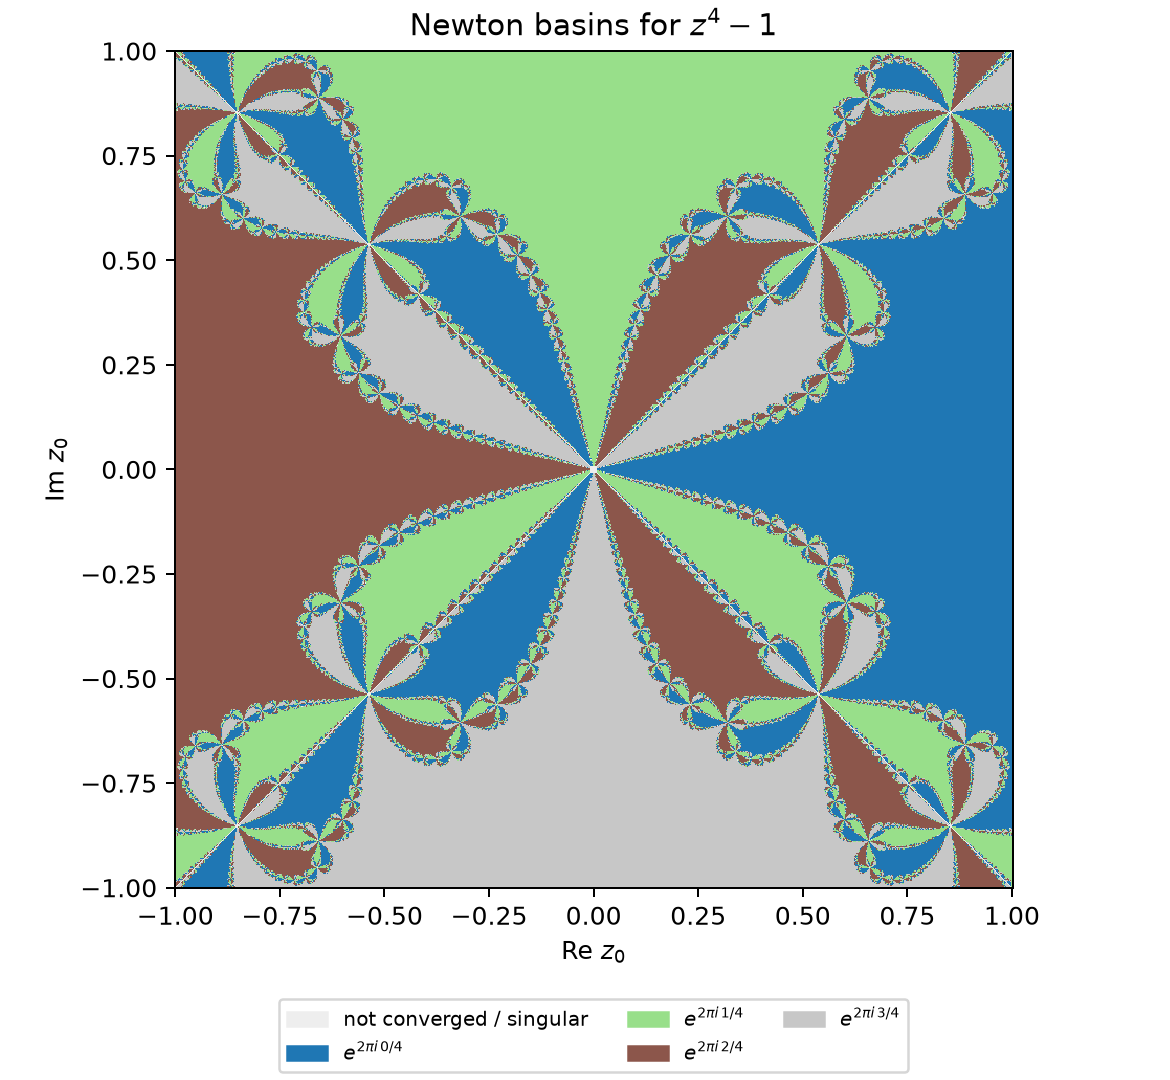
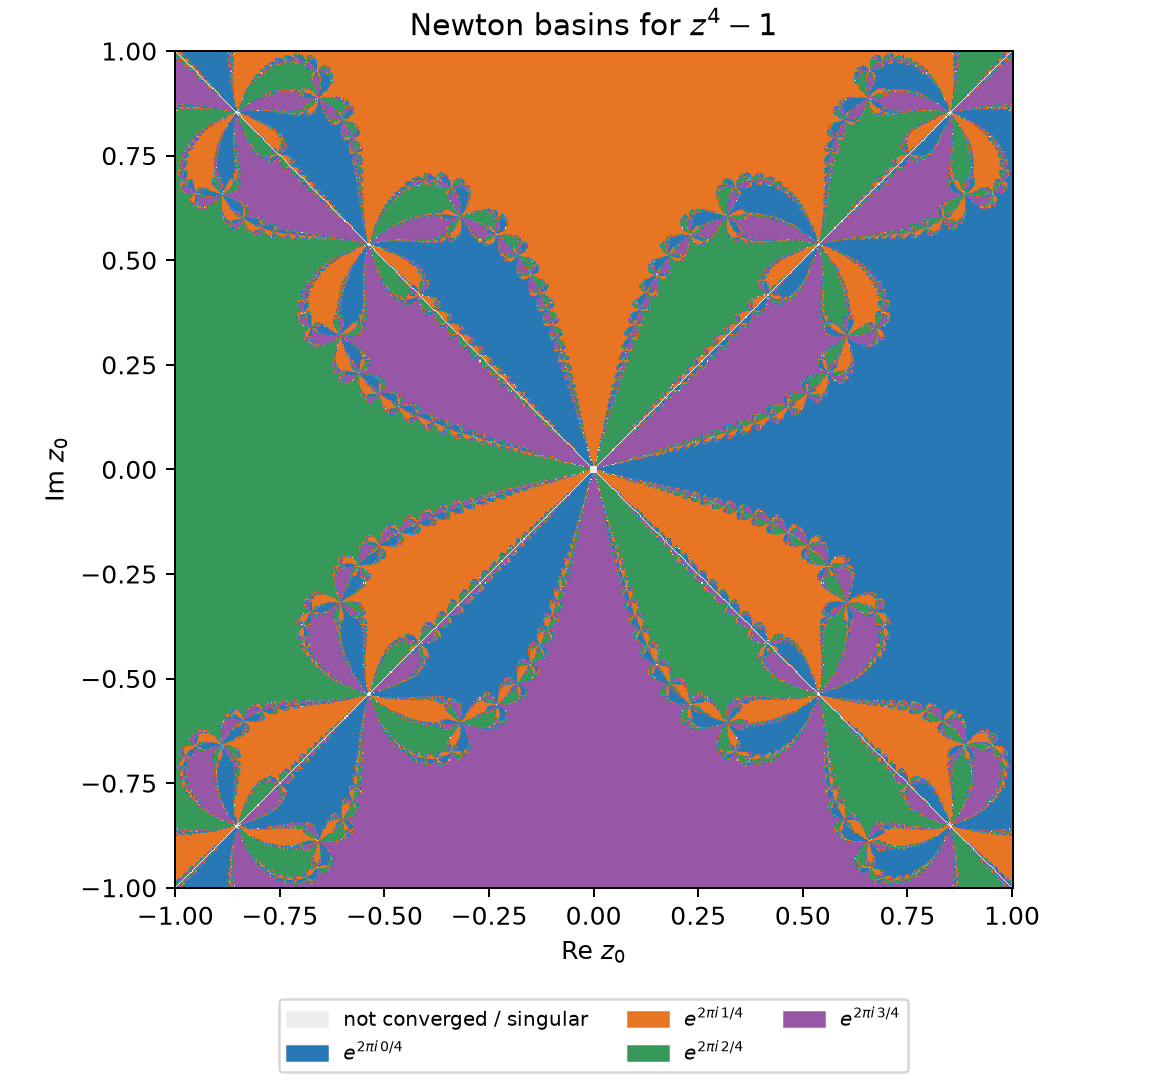
Distinguish all Newton root colors from unresolved points

diff --git a/reconstructed/newton_basins.py b/reconstructed/newton_basins.py
@@ -52,7 +52,9 @@ def main():
     import matplotlib.pyplot as plt
     from matplotlib.colors import ListedColormap, BoundaryNorm
     from matplotlib.patches import Patch
-    colors = ['#eeeeee'] + [plt.get_cmap('tab20')(k / max(args.degree, 1)) for k in range(args.degree)]
+    palette = ['#2878b5', '#e87524', '#369959', '#9756a6', '#ca4a4a', '#8c564b',
+               '#cf6a9f', '#a58a12', '#24a5a5', '#305a80', '#9acb72', '#f4b85b']
+    colors = ['#eeeeee'] + palette[:args.degree]
     cmap = ListedColormap(colors)
     fig, ax = plt.subplots(figsize=(6.5,6), layout='constrained')
     # Pixel centers agree with the sampled domain, including its endpoints.
